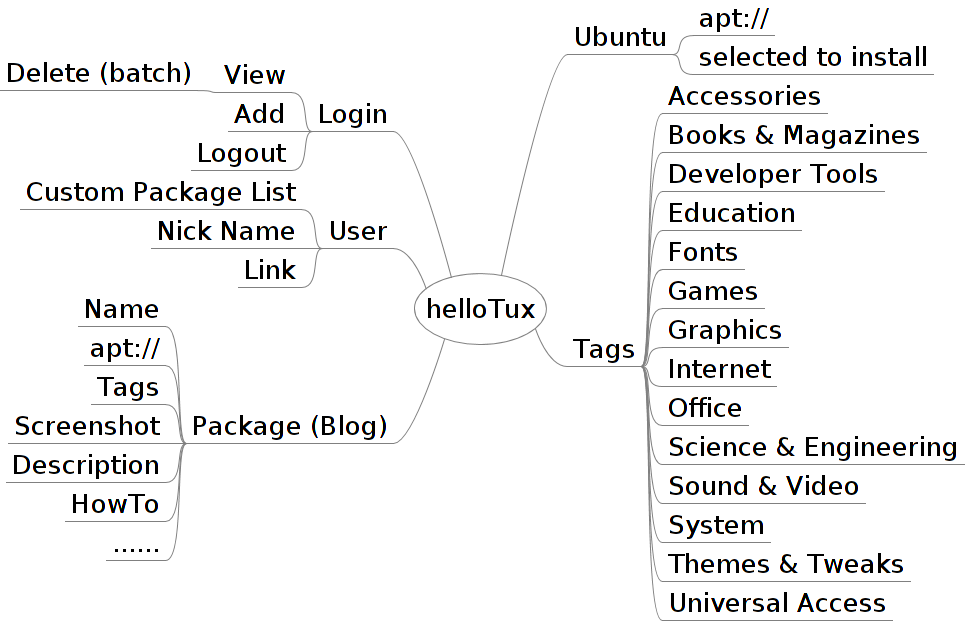
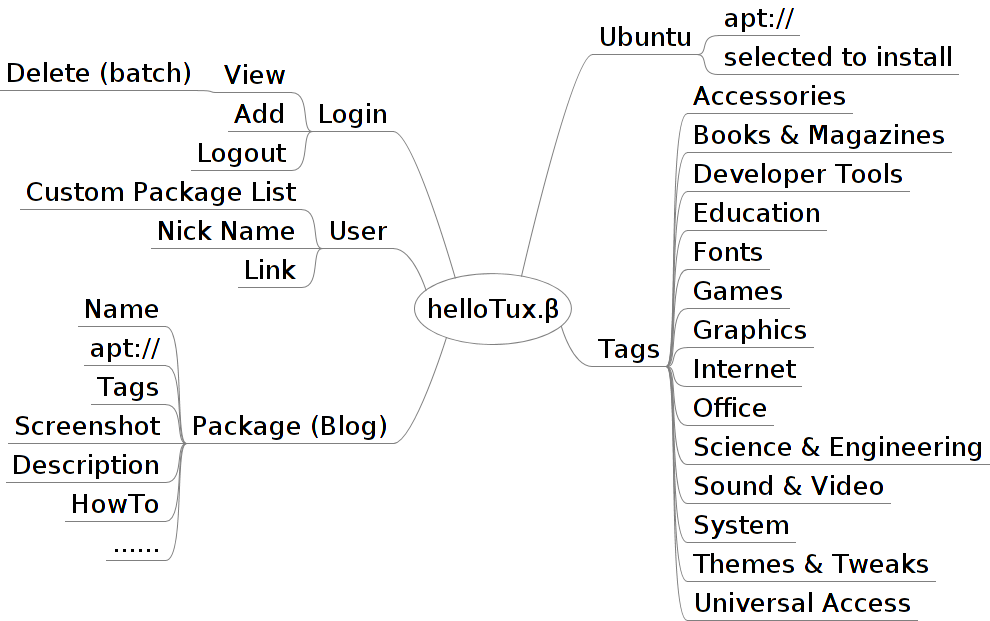
update helloTux to helloTux.β.

diff --git a/jonny/structure.mm b/jonny/structure.mm
@@ -1,6 +1,6 @@
 <map version="0.9.0">
 <!-- To view this file, download free mind mapping software FreeMind from http://freemind.sourceforge.net -->
-<node CREATED="1358435644415" ID="ID_1275128298" MODIFIED="1358436349700" TEXT="helloTux">
+<node CREATED="1358435644415" ID="ID_1275128298" MODIFIED="1358437194578" TEXT="helloTux.&#x3b2;">
 <node CREATED="1358435804354" ID="ID_1262415253" MODIFIED="1358435811767" POSITION="right" TEXT="Ubuntu">
 <node CREATED="1358436080319" ID="ID_1514451285" MODIFIED="1358436083349" TEXT="apt://"/>
 <node CREATED="1358436095204" ID="ID_612890402" MODIFIED="1358436113126" TEXT="selected to install"/>
